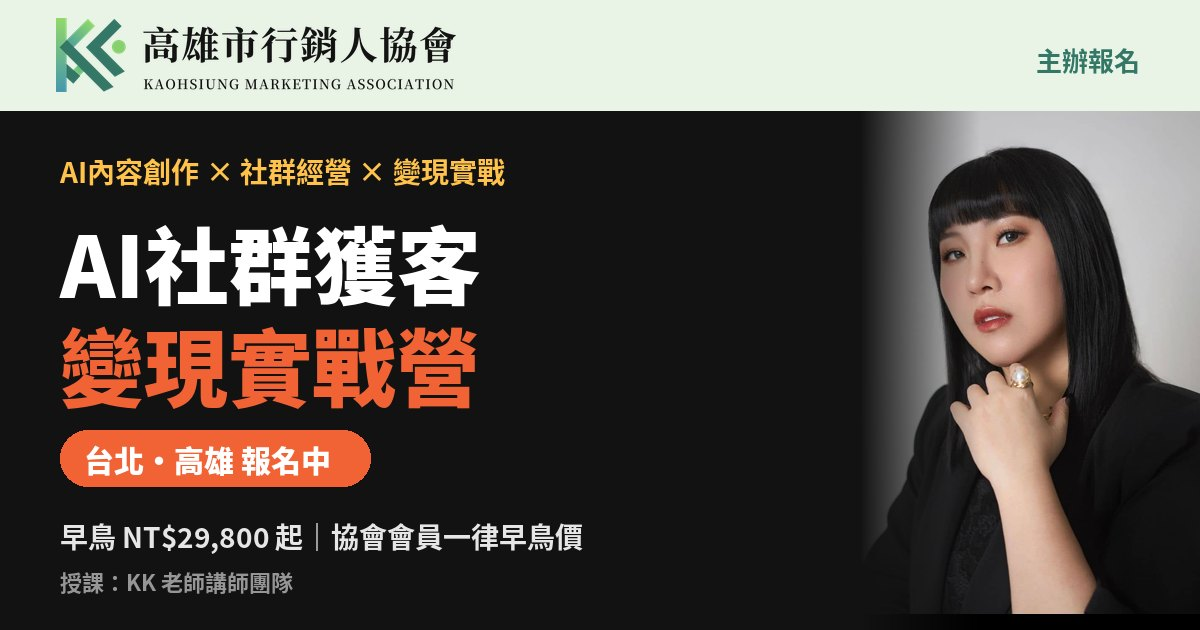
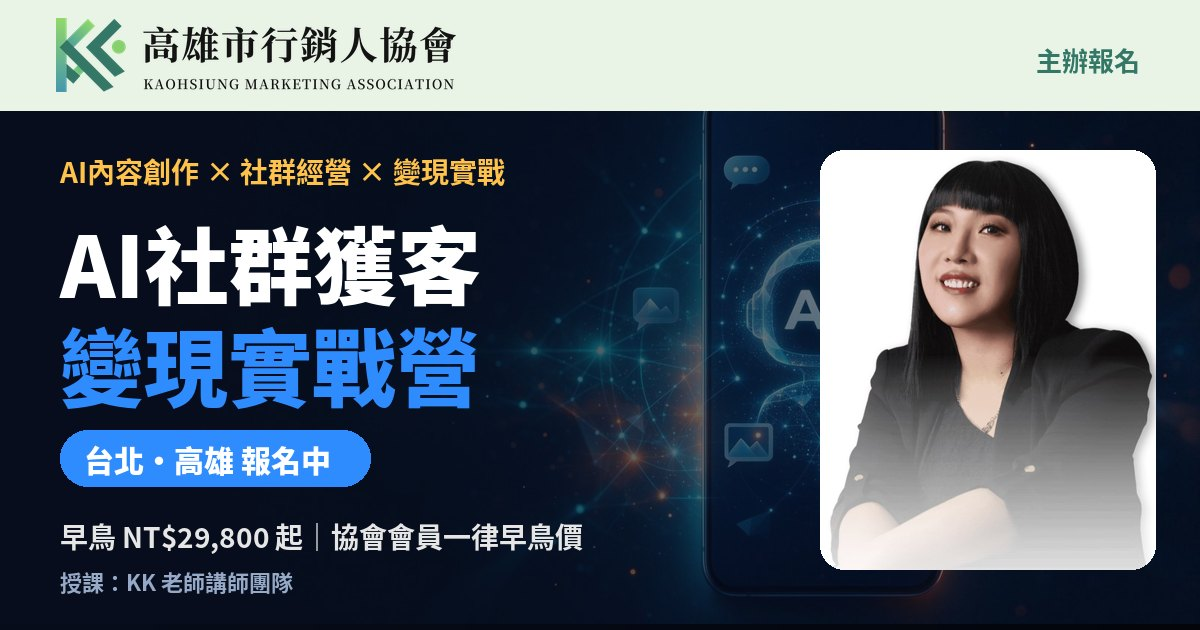
兩門課視覺區隔：AI 課改藍色科技主題與 KK 老師笑容照、首屏背景圖；直播課首屏改舞台背景；AI 課分享預覽圖同步更新
Claude-Session: https://claude.ai/code/session_01BkVFyem5AEymxAgnAVNjba

diff --git a/ai/index.html b/ai/index.html
@@ -344,6 +344,26 @@ footer.site .copy{border-top:1px solid #222;margin-top:28px;padding-top:18px;fon
 .bg-resources::before{background:linear-gradient(180deg,rgba(14,12,10,.72) 0%,rgba(14,12,10,.82) 60%,rgba(14,12,10,.92) 100%)}
 .bg-photo .flow span{background:rgba(18,18,18,.7)}
 @media(max-width:719px){.bg-abilities{background-position:72% center}.bg-abilities::before{background:linear-gradient(180deg,rgba(10,14,24,.88),rgba(10,14,24,.78))}}
+
+/* ===== 兩門課視覺區隔：AI 課藍色科技、直播課舞台金橘 ===== */
+.theme-ai{--accent:#2f8cff;--accent-dk:#1c6fd8}
+.theme-ai .hero{background:linear-gradient(90deg,rgba(7,13,28,.96) 0%,rgba(7,13,28,.86) 48%,rgba(7,13,28,.45) 100%),url(../static/bg-ai.jpg) right center/cover no-repeat,#0a1222}
+.theme-ai .btn{box-shadow:0 8px 20px rgba(47,140,255,.35)}
+.theme-ai .btn.ghost{box-shadow:none}
+.theme-ai .pain-list li::before{background:#e1edff}
+.theme-ai .tools i{background:#e8f1ff;color:#1c6fd8}
+.theme-ai .session.ks,.theme-ai .opt:has(input:checked),.theme-ai .price-summary{background:#f0f6ff}
+.theme-ai .test::before{color:#cfe0f7}
+.theme-ai .field input:focus,.theme-ai .field select:focus,.theme-ai .field textarea:focus{box-shadow:0 0 0 3px rgba(47,140,255,.2)}
+.theme-ai .dark{background:#0b1324}
+.theme-ai .dark .card{background:#121d33;border-color:#1f2d4a}
+.theme-ai .signup{background:linear-gradient(180deg,#0b1324 0 260px,var(--paper) 260px)}
+.fig-light img{background:#fff;object-position:center top}
+.theme-live .hero{background:linear-gradient(90deg,rgba(14,11,8,.95) 0%,rgba(14,11,8,.82) 48%,rgba(14,11,8,.45) 100%),url(../static/bg-live.jpg) center/cover no-repeat,#121212}
+@media(max-width:959px){
+ .theme-ai .hero{background:linear-gradient(180deg,rgba(7,13,28,.9),rgba(7,13,28,.82)),url(../static/bg-ai.jpg) 70% center/cover no-repeat,#0a1222}
+ .theme-live .hero{background:linear-gradient(180deg,rgba(14,11,8,.88),rgba(14,11,8,.8)),url(../static/bg-live.jpg) center/cover no-repeat,#121212}
+}
 </style>
 <script>
 /* ===== 可編輯設定：場次、表單後端 =====
@@ -363,7 +383,7 @@ window.COURSE = {
 };
 </script>
 </head>
-<body>
+<body class="theme-ai">
 
 <nav class="nav" aria-label="主選單">
   <div class="wrap">
@@ -399,7 +419,7 @@ window.COURSE = {
       </div>
       <p class="note">協會會員一律早鳥價｜授課：KK 老師講師團隊</p>
     </div>
-    <div class="hero-visual"><figure><img src="../static/teacher-kk.jpg" alt="KK 老師" width="810" height="1200"><figcaption>KK 老師｜電商直播培訓教母</figcaption></figure></div>
+    <div class="hero-visual"><figure class="fig-light"><img src="../static/teacher-kk-smile.jpg" alt="KK 老師" width="720" height="900"><figcaption>KK 老師｜AI 社群獲客實戰</figcaption></figure></div>
   </div>
 </header>
 
@@ -418,7 +438,7 @@ window.COURSE = {
   </div>
 </section>
 
-<section class="dark bg-photo bg-abilities" id="abilities" style="--bg:url(../static/bg-ai.jpg)">
+<section class="dark" id="abilities">
   <div class="wrap">
     <span class="eyebrow">5 abilities</span>
     <h2>兩天掌握五大 AI 核心能力</h2>

diff --git a/live/index.html b/live/index.html
@@ -344,6 +344,26 @@ footer.site .copy{border-top:1px solid #222;margin-top:28px;padding-top:18px;fon
 .bg-resources::before{background:linear-gradient(180deg,rgba(14,12,10,.72) 0%,rgba(14,12,10,.82) 60%,rgba(14,12,10,.92) 100%)}
 .bg-photo .flow span{background:rgba(18,18,18,.7)}
 @media(max-width:719px){.bg-abilities{background-position:72% center}.bg-abilities::before{background:linear-gradient(180deg,rgba(10,14,24,.88),rgba(10,14,24,.78))}}
+
+/* ===== 兩門課視覺區隔：AI 課藍色科技、直播課舞台金橘 ===== */
+.theme-ai{--accent:#2f8cff;--accent-dk:#1c6fd8}
+.theme-ai .hero{background:linear-gradient(90deg,rgba(7,13,28,.96) 0%,rgba(7,13,28,.86) 48%,rgba(7,13,28,.45) 100%),url(../static/bg-ai.jpg) right center/cover no-repeat,#0a1222}
+.theme-ai .btn{box-shadow:0 8px 20px rgba(47,140,255,.35)}
+.theme-ai .btn.ghost{box-shadow:none}
+.theme-ai .pain-list li::before{background:#e1edff}
+.theme-ai .tools i{background:#e8f1ff;color:#1c6fd8}
+.theme-ai .session.ks,.theme-ai .opt:has(input:checked),.theme-ai .price-summary{background:#f0f6ff}
+.theme-ai .test::before{color:#cfe0f7}
+.theme-ai .field input:focus,.theme-ai .field select:focus,.theme-ai .field textarea:focus{box-shadow:0 0 0 3px rgba(47,140,255,.2)}
+.theme-ai .dark{background:#0b1324}
+.theme-ai .dark .card{background:#121d33;border-color:#1f2d4a}
+.theme-ai .signup{background:linear-gradient(180deg,#0b1324 0 260px,var(--paper) 260px)}
+.fig-light img{background:#fff;object-position:center top}
+.theme-live .hero{background:linear-gradient(90deg,rgba(14,11,8,.95) 0%,rgba(14,11,8,.82) 48%,rgba(14,11,8,.45) 100%),url(../static/bg-live.jpg) center/cover no-repeat,#121212}
+@media(max-width:959px){
+ .theme-ai .hero{background:linear-gradient(180deg,rgba(7,13,28,.9),rgba(7,13,28,.82)),url(../static/bg-ai.jpg) 70% center/cover no-repeat,#0a1222}
+ .theme-live .hero{background:linear-gradient(180deg,rgba(14,11,8,.88),rgba(14,11,8,.8)),url(../static/bg-live.jpg) center/cover no-repeat,#121212}
+}
 </style>
 <script>
 /* ===== 可編輯設定：場次、表單後端 =====
@@ -362,7 +382,7 @@ window.COURSE = {
 };
 </script>
 </head>
-<body>
+<body class="theme-live">
 
 <nav class="nav" aria-label="主選單">
   <div class="wrap">
@@ -419,7 +439,7 @@ window.COURSE = {
   </div>
 </section>
 
-<section class="dark bg-photo bg-resources" id="resources" style="--bg:url(../static/bg-live.jpg)">
+<section class="dark" id="resources">
   <div class="wrap">
     <span class="eyebrow">Products &amp; channels</span>
     <h2>不只教你播，還幫你接上商品與供應鏈</h2>

diff --git a/index.html b/index.html
@@ -343,6 +343,26 @@ footer.site .copy{border-top:1px solid #222;margin-top:28px;padding-top:18px;fon
 .bg-photo .flow span{background:rgba(18,18,18,.7)}
 @media(max-width:719px){.bg-abilities{background-position:72% center}.bg-abilities::before{background:linear-gradient(180deg,rgba(10,14,24,.88),rgba(10,14,24,.78))}}
 
+/* ===== 兩門課視覺區隔：AI 課藍色科技、直播課舞台金橘 ===== */
+.theme-ai{--accent:#2f8cff;--accent-dk:#1c6fd8}
+.theme-ai .hero{background:linear-gradient(90deg,rgba(7,13,28,.96) 0%,rgba(7,13,28,.86) 48%,rgba(7,13,28,.45) 100%),url(../static/bg-ai.jpg) right center/cover no-repeat,#0a1222}
+.theme-ai .btn{box-shadow:0 8px 20px rgba(47,140,255,.35)}
+.theme-ai .btn.ghost{box-shadow:none}
+.theme-ai .pain-list li::before{background:#e1edff}
+.theme-ai .tools i{background:#e8f1ff;color:#1c6fd8}
+.theme-ai .session.ks,.theme-ai .opt:has(input:checked),.theme-ai .price-summary{background:#f0f6ff}
+.theme-ai .test::before{color:#cfe0f7}
+.theme-ai .field input:focus,.theme-ai .field select:focus,.theme-ai .field textarea:focus{box-shadow:0 0 0 3px rgba(47,140,255,.2)}
+.theme-ai .dark{background:#0b1324}
+.theme-ai .dark .card{background:#121d33;border-color:#1f2d4a}
+.theme-ai .signup{background:linear-gradient(180deg,#0b1324 0 260px,var(--paper) 260px)}
+.fig-light img{background:#fff;object-position:center top}
+.theme-live .hero{background:linear-gradient(90deg,rgba(14,11,8,.95) 0%,rgba(14,11,8,.82) 48%,rgba(14,11,8,.45) 100%),url(../static/bg-live.jpg) center/cover no-repeat,#121212}
+@media(max-width:959px){
+ .theme-ai .hero{background:linear-gradient(180deg,rgba(7,13,28,.9),rgba(7,13,28,.82)),url(../static/bg-ai.jpg) 70% center/cover no-repeat,#0a1222}
+ .theme-live .hero{background:linear-gradient(180deg,rgba(14,11,8,.88),rgba(14,11,8,.8)),url(../static/bg-live.jpg) center/cover no-repeat,#121212}
+}
+
 .home-cards{display:grid;gap:18px;margin-top:32px}
 @media(min-width:860px){.home-cards{grid-template-columns:1fr 1fr}}
 .home-cards a{text-decoration:none;color:inherit}

diff --git a/src/common.css b/src/common.css
@@ -329,3 +329,23 @@ footer.site .copy{border-top:1px solid #222;margin-top:28px;padding-top:18px;fon
 .bg-resources::before{background:linear-gradient(180deg,rgba(14,12,10,.72) 0%,rgba(14,12,10,.82) 60%,rgba(14,12,10,.92) 100%)}
 .bg-photo .flow span{background:rgba(18,18,18,.7)}
 @media(max-width:719px){.bg-abilities{background-position:72% center}.bg-abilities::before{background:linear-gradient(180deg,rgba(10,14,24,.88),rgba(10,14,24,.78))}}
+
+/* ===== 兩門課視覺區隔：AI 課藍色科技、直播課舞台金橘 ===== */
+.theme-ai{--accent:#2f8cff;--accent-dk:#1c6fd8}
+.theme-ai .hero{background:linear-gradient(90deg,rgba(7,13,28,.96) 0%,rgba(7,13,28,.86) 48%,rgba(7,13,28,.45) 100%),url(../static/bg-ai.jpg) right center/cover no-repeat,#0a1222}
+.theme-ai .btn{box-shadow:0 8px 20px rgba(47,140,255,.35)}
+.theme-ai .btn.ghost{box-shadow:none}
+.theme-ai .pain-list li::before{background:#e1edff}
+.theme-ai .tools i{background:#e8f1ff;color:#1c6fd8}
+.theme-ai .session.ks,.theme-ai .opt:has(input:checked),.theme-ai .price-summary{background:#f0f6ff}
+.theme-ai .test::before{color:#cfe0f7}
+.theme-ai .field input:focus,.theme-ai .field select:focus,.theme-ai .field textarea:focus{box-shadow:0 0 0 3px rgba(47,140,255,.2)}
+.theme-ai .dark{background:#0b1324}
+.theme-ai .dark .card{background:#121d33;border-color:#1f2d4a}
+.theme-ai .signup{background:linear-gradient(180deg,#0b1324 0 260px,var(--paper) 260px)}
+.fig-light img{background:#fff;object-position:center top}
+.theme-live .hero{background:linear-gradient(90deg,rgba(14,11,8,.95) 0%,rgba(14,11,8,.82) 48%,rgba(14,11,8,.45) 100%),url(../static/bg-live.jpg) center/cover no-repeat,#121212}
+@media(max-width:959px){
+ .theme-ai .hero{background:linear-gradient(180deg,rgba(7,13,28,.9),rgba(7,13,28,.82)),url(../static/bg-ai.jpg) 70% center/cover no-repeat,#0a1222}
+ .theme-live .hero{background:linear-gradient(180deg,rgba(14,11,8,.88),rgba(14,11,8,.8)),url(../static/bg-live.jpg) center/cover no-repeat,#121212}
+}

diff --git a/src/ai.html b/src/ai.html
@@ -32,7 +32,7 @@ window.COURSE = {
 };
 </script>
 </head>
-<body>
+<body class="theme-ai">
 
 <nav class="nav" aria-label="主選單">
   <div class="wrap">
@@ -68,7 +68,7 @@ window.COURSE = {
       </div>
       <p class="note">協會會員一律早鳥價｜授課：KK 老師講師團隊</p>
     </div>
-    <div class="hero-visual"><figure><img src="../static/teacher-kk.jpg" alt="KK 老師" width="810" height="1200"><figcaption>KK 老師｜電商直播培訓教母</figcaption></figure></div>
+    <div class="hero-visual"><figure class="fig-light"><img src="../static/teacher-kk-smile.jpg" alt="KK 老師" width="720" height="900"><figcaption>KK 老師｜AI 社群獲客實戰</figcaption></figure></div>
   </div>
 </header>
 
@@ -87,7 +87,7 @@ window.COURSE = {
   </div>
 </section>
 
-<section class="dark bg-photo bg-abilities" id="abilities" style="--bg:url(../static/bg-ai.jpg)">
+<section class="dark" id="abilities">
   <div class="wrap">
     <span class="eyebrow">5 abilities</span>
     <h2>兩天掌握五大 AI 核心能力</h2>

diff --git a/src/live.html b/src/live.html
@@ -31,7 +31,7 @@ window.COURSE = {
 };
 </script>
 </head>
-<body>
+<body class="theme-live">
 
 <nav class="nav" aria-label="主選單">
   <div class="wrap">
@@ -88,7 +88,7 @@ window.COURSE = {
   </div>
 </section>
 
-<section class="dark bg-photo bg-resources" id="resources" style="--bg:url(../static/bg-live.jpg)">
+<section class="dark" id="resources">
   <div class="wrap">
     <span class="eyebrow">Products &amp; channels</span>
     <h2>不只教你播，還幫你接上商品與供應鏈</h2>
